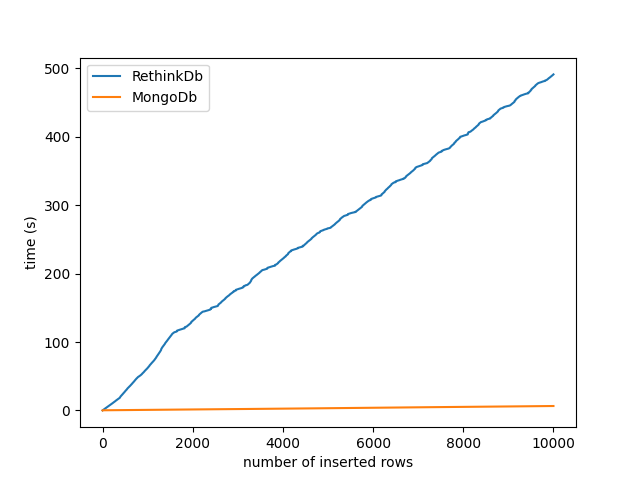
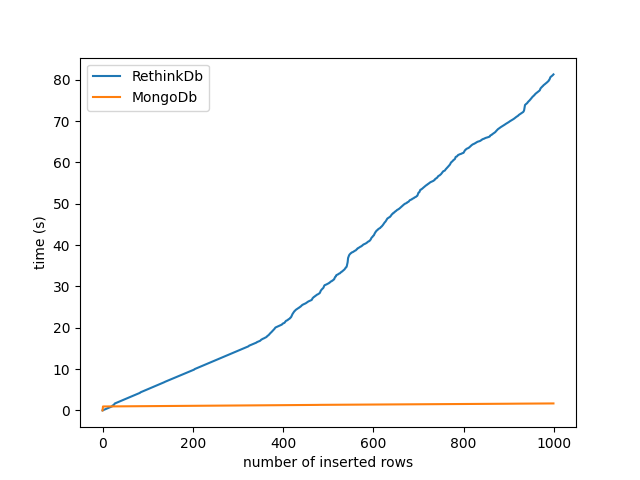
make test suite easy to run

diff --git a/efficiency-tests/main.py b/efficiency-tests/main.py
@@ -14,6 +14,7 @@ class RethinkTest:
         except ReqlRuntimeError:
             pass
         r.db('test').table_create(collection).run()
+        # r.table(collection).reconfigure(shards=2, replicas=1).run()
 
     @classmethod
     def test_inserts_efficiency(cls, inserts_num: int):
@@ -90,25 +91,30 @@ def plot_result(rethink_data: list, mongo_data: list, test_name: str):
     plt.plot(mongo_time_series)
 
     plt.legend(['RethinkDb', 'MongoDb'])
-    plt.xlabel('number of inserted rows')
+    plt.xlabel('number of iterations')
     plt.ylabel('time (s)')
 
     plt.savefig(f'{test_name}.png')
+    plt.close()
 
 
 if __name__ == '__main__':
 
-    inserts_number = 1_000
-    test_name = 'read_write'
+    iterations_num = 1_000
+    tests = ['inserts', 'read_write']
 
-    rethink_test = RethinkTest(test_name)
-    rethink_test.test_read_write_efficiency(inserts_num=inserts_number)
+    for test_name in tests:
+        print(f'TEST: {test_name}')
+        print("RethinkDb")
+        rethink_test = RethinkTest(test_name)
+        getattr(rethink_test, f'test_{test_name}_efficiency')(iterations_num)
 
-    mongo_test = MongoTest(test_name)
-    mongo_test.test_read_write_efficiency(inserts_num=inserts_number)
+        print("MongoDb")
+        mongo_test = MongoTest(test_name)
+        getattr(mongo_test, f'test_{test_name}_efficiency')(inserts_num=iterations_num)
 
-    plot_result(
-        rethink_data=rethink_test.get_results(test_name),
-        mongo_data=mongo_test.get_results(test_name),
-        test_name=test_name
-    )
+        plot_result(
+            rethink_data=rethink_test.get_results(test_name),
+            mongo_data=mongo_test.get_results(test_name),
+            test_name=test_name
+        )
